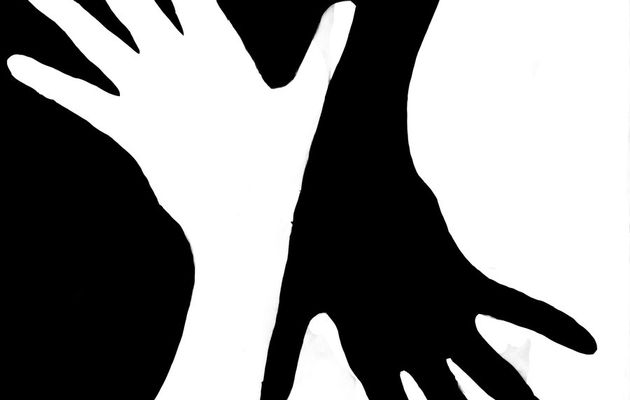
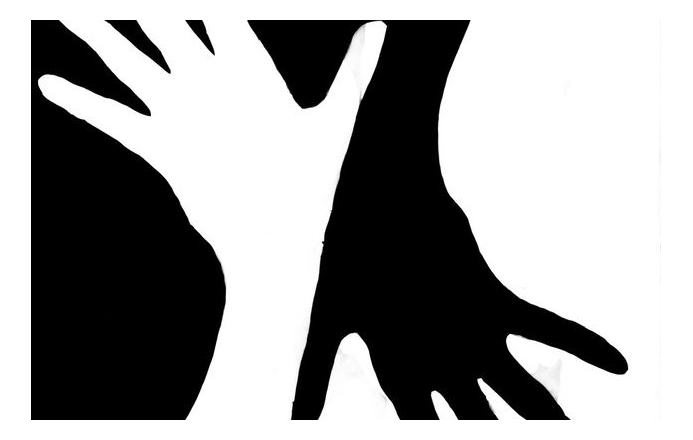
directory based organization implemented

diff --git a/HighLevel/recomposition/skeleton/skeletonRecompose.py b/HighLevel/recomposition/skeleton/skeletonRecompose.py
@@ -1,87 +1,86 @@
-from recomposition.abstractRecompose.absRecompose import recomposer
 from common.util import *
 import graph
 import cv2
 
-class skeletonRecomposer(recomposer):
-    def __init__(self, image, args):
-        recomposer.__init__(self, image,args)
-        pass
+def recompose(image,args):
+    (thresh, binImg) = cv2.threshold(image, 128, 255, cv2.THRESH_BINARY | cv2.THRESH_OTSU) 
 
-    def recompose(self):
-        (thresh, binImg) = cv2.threshold(self.image, 128, 255, cv2.THRESH_BINARY | cv2.THRESH_OTSU) 
+    pathImg = skeletonize(binImg)
 
-        pathImg = self.skeletonize(binImg)
+    #display(self.createNodeImg(pathImg))
 
-        #display(self.createNodeImg(pathImg))
+    ## Remove points that do not have enough neighbors
 
-        ## Remove points that do not have enough neighbors
+    radius = 3
+    border = -1
+    n_limit = 1
+    neighbors = getNeighborPoints([0,0],circleKernal(radius,border))
+    pts = getPoints(pathImg,255)
+    for point in pts:
+        if pathImg[point] != 0:
+            if np.count_nonzero(pathImg[neighbors[:,0]+point[0],neighbors[:,1]+point[1]]) <= n_limit:
+                pathImg[point]=0
+    g = graph.graph(getPoints(pathImg,255))
+    paths = graph.findPaths(g)
 
-        radius = 3
-        border = -1
-        n_limit = 1
-        neighbors = getNeighborPoints([0,0],circleKernal(radius,border))
-        pts = getPoints(pathImg,255)
-        for point in pts:
-            if pathImg[point] != 0:
-                if np.count_nonzero(pathImg[neighbors[:,0]+point[0],neighbors[:,1]+point[1]]) <= n_limit:
-                    pathImg[point]=0
-        g = graph.graph(getPoints(pathImg,255))
-        paths = graph.findPaths(g)
+    paths = reducePaths(paths,1000)
 
-        paths = self.reducePaths(paths,1000)
+    paths = mapLLT(paths,image.shape)
 
-        return paths
+    return paths
 
-    ################################################################
-    ############# Helpers ##########################################
-    ################################################################
+################################################################
+############# Helpers ##########################################
+################################################################
 
-    def skeletonize(self, binImg):
-        element = cv2.getStructuringElement(cv2.MORPH_CROSS,(3,3))
-        #element = circleKernal(1)
-        done = False
+def skeletonize(binImg):
+    element = cv2.getStructuringElement(cv2.MORPH_CROSS,(3,3))
+    #element = circleKernal(1)
+    done = False
 
-        img = 255-binImg.copy()
-        skel = np.zeros(img.shape,np.uint8)
+    img = 255-binImg.copy()
+    skel = np.zeros(img.shape,np.uint8)
 
-        while( not done):
-            eroded = cv2.erode(img,element)
-            temp = cv2.dilate(eroded,element)
-            temp = cv2.subtract(img,temp)
-            skel = cv2.bitwise_or(skel,temp)
-            img = eroded.copy()
+    while( not done):
+        eroded = cv2.erode(img,element)
+        temp = cv2.dilate(eroded,element)
+        temp = cv2.subtract(img,temp)
+        skel = cv2.bitwise_or(skel,temp)
+        img = eroded.copy()
 
-            nonzero = cv2.countNonZero(img)
-            if nonzero==0:
-                done = True
+        nonzero = cv2.countNonZero(img)
+        if nonzero==0:
+            done = True
 
-        return skel
+    return skel
 
-    def createNodeImg(self,pathImg):
-        nodeImg = cv2.cvtColor(pathImg.copy(),cv2.COLOR_GRAY2BGR)
-        for node in g.node_list:
-            if node.status == graph.node.End:
-                nodeImg[node.point[0],node.point[1]] = (0,0,255)
-            elif node.status == graph.node.Path:
-                nodeImg[node.point[0],node.point[1]] = (0,255,255)
-            elif node.status == graph.node.Dead:
-                nodeImg[node.point[0],node.point[1]] = (128,128,128)
-            elif node.status == graph.node.Visited:
-                nodeImg[node.point[0],node.point[1]] = (255,0,0)
-        return nodeImg
+def createNodeImg(pathImg):
+    nodeImg = cv2.cvtColor(pathImg.copy(),cv2.COLOR_GRAY2BGR)
+    for node in g.node_list:
+        if node.status == graph.node.End:
+            nodeImg[node.point[0],node.point[1]] = (0,0,255)
+        elif node.status == graph.node.Path:
+            nodeImg[node.point[0],node.point[1]] = (0,255,255)
+        elif node.status == graph.node.Dead:
+            nodeImg[node.point[0],node.point[1]] = (128,128,128)
+        elif node.status == graph.node.Visited:
+            nodeImg[node.point[0],node.point[1]] = (255,0,0)
+    return nodeImg
 
-    def reducePaths(self,paths,desired_n_points):
-        step = 1+int(sum(len(path) for path in paths)/desired_n_points)
+def reducePaths(paths,desired_n_points):
+    step = 1+int(sum(len(path) for path in paths)/desired_n_points)
 
-        out_pts = []
-        for path_i in range(len(paths)):
-            path = paths[path_i]
-            list_pts=[]
-            for pt_i in range(0,len(path),step):
-                pt=path[pt_i]
-                #pt=(8.5*25.4/1000)*pt
-                pt=map((pt[1],pt[0]),self.image.shape[:2])
-                list_pts.append(pt)
-            out_pts.append(list_pts)
-        return out_pts
+    out_pts = []
+    for path_i in range(len(paths)):
+        path = paths[path_i]
+        list_pts=[]
+        for pt_i in range(0,len(path),step):
+            pt=path[pt_i]
+            #pt=(8.5*25.4/1000)*pt
+            
+            list_pts.append(pt)
+        out_pts.append(list_pts)
+    return out_pts
+
+if __name__ == "__main__":
+   recompose(sys.argv[1],sys.argv[2])

diff --git a/HighLevel/common/util.py b/HighLevel/common/util.py
@@ -90,6 +90,18 @@ def drawLines(pts,img,thicnkess=3,showSteps=False):
 				display(img)
 	return img
 
+def mapLLT(LLT,src_shape,dst_shape = (11*25.4,8.5*25.4),orient=True,stretch = False):
+	out_pts = []
+	for stroke in LLT:
+		list_pts=[]
+		for command in stroke:
+			pt=map((command[1],command[0]),src_shape[:2],dst_shape,orient,stretch)
+			list_pts.append(pt)
+		out_pts.append(list_pts)
+	return out_pts
+
+
+
 def testLLT(LLT,scale = 2,paper_size = (11*25.4,8.5*25.4)):
 	"""	Displays the expected output of the given orders text file"""
 	for stroke in LLT:

diff --git a/HighLevel/main.py b/HighLevel/main.py
@@ -1,16 +1,14 @@
-from recomposition.skeleton.skeletonRecompose import *
+from recomposition.skeleton import skeletonRecompose
 from common.util import *
 import cv2
 
-fname = 'resources/images/input/cat.png'
+fname = 'resources/images/input/hands.png'
 
 desiredImg = cv2.imread(fname, cv2.IMREAD_UNCHANGED)
 
 desiredImg_grey = cv2.cvtColor(desiredImg, cv2.COLOR_BGR2GRAY)
 
-recomposer = skeletonRecomposer(desiredImg_grey,3)
-
-LLT = recomposer.recompose()
+LLT = skeletonRecompose.recompose(desiredImg_grey,3)
 
 testLLT(LLT,3)
 
